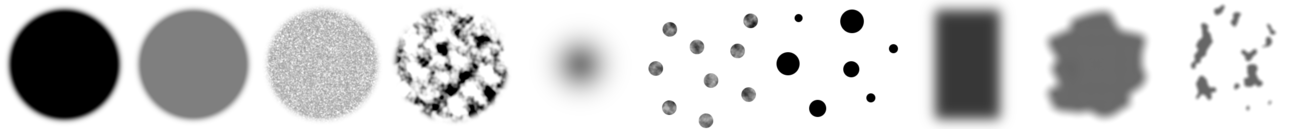
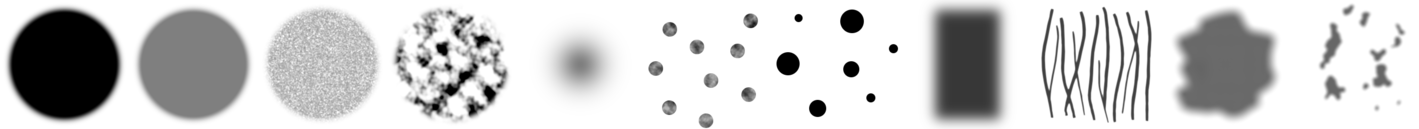
Add new 'sticks' brush.

diff --git a/src/brush.js b/src/brush.js
@@ -11,7 +11,7 @@ define(['img!../brushes/brush-tile-129.png', './color'], function(brushesImg, Co
     // names/indexes of brushes in brushesImg
     var BrushTypes = ['hard', 'medium', 'rough fine', 'rough coarse',
                       'soft', 'dots small', 'dots large', 'rect',
-                      'splotch', 'splotches coarse'];
+                      'sticks', 'splotch', 'splotches coarse'];
     // map name to index and vice versa
     BrushTypes.forEach(function(type, idx) {
         BrushTypes[type] = idx;
@@ -26,6 +26,7 @@ define(['img!../brushes/brush-tile-129.png', './color'], function(brushesImg, Co
         'dots small': 0.67,
         'dots large': 1.00,
         rect: 0.12,
+        sticks: 0.19,
         splotch: 0.25,
         'splotches coarse': 0.23
     };
@@ -34,6 +35,7 @@ define(['img!../brushes/brush-tile-129.png', './color'], function(brushesImg, Co
     var BrushRotation = {
         'rough fine': 0.5,
         'rough coarse': 0.5,
+        sticks: 0.66,
         splotch: 0.6,
         'splotches coarse': 1.2
     };

diff --git a/sass/_brushdialog.scss b/sass/_brushdialog.scss
@@ -3,7 +3,7 @@
  *  #brushdialog { @import "brushdialog"; }
  */
 
-$numbrushes: 10;
+$numbrushes: 11;
 
 @mixin no-select {
   // disable text selection in this element
